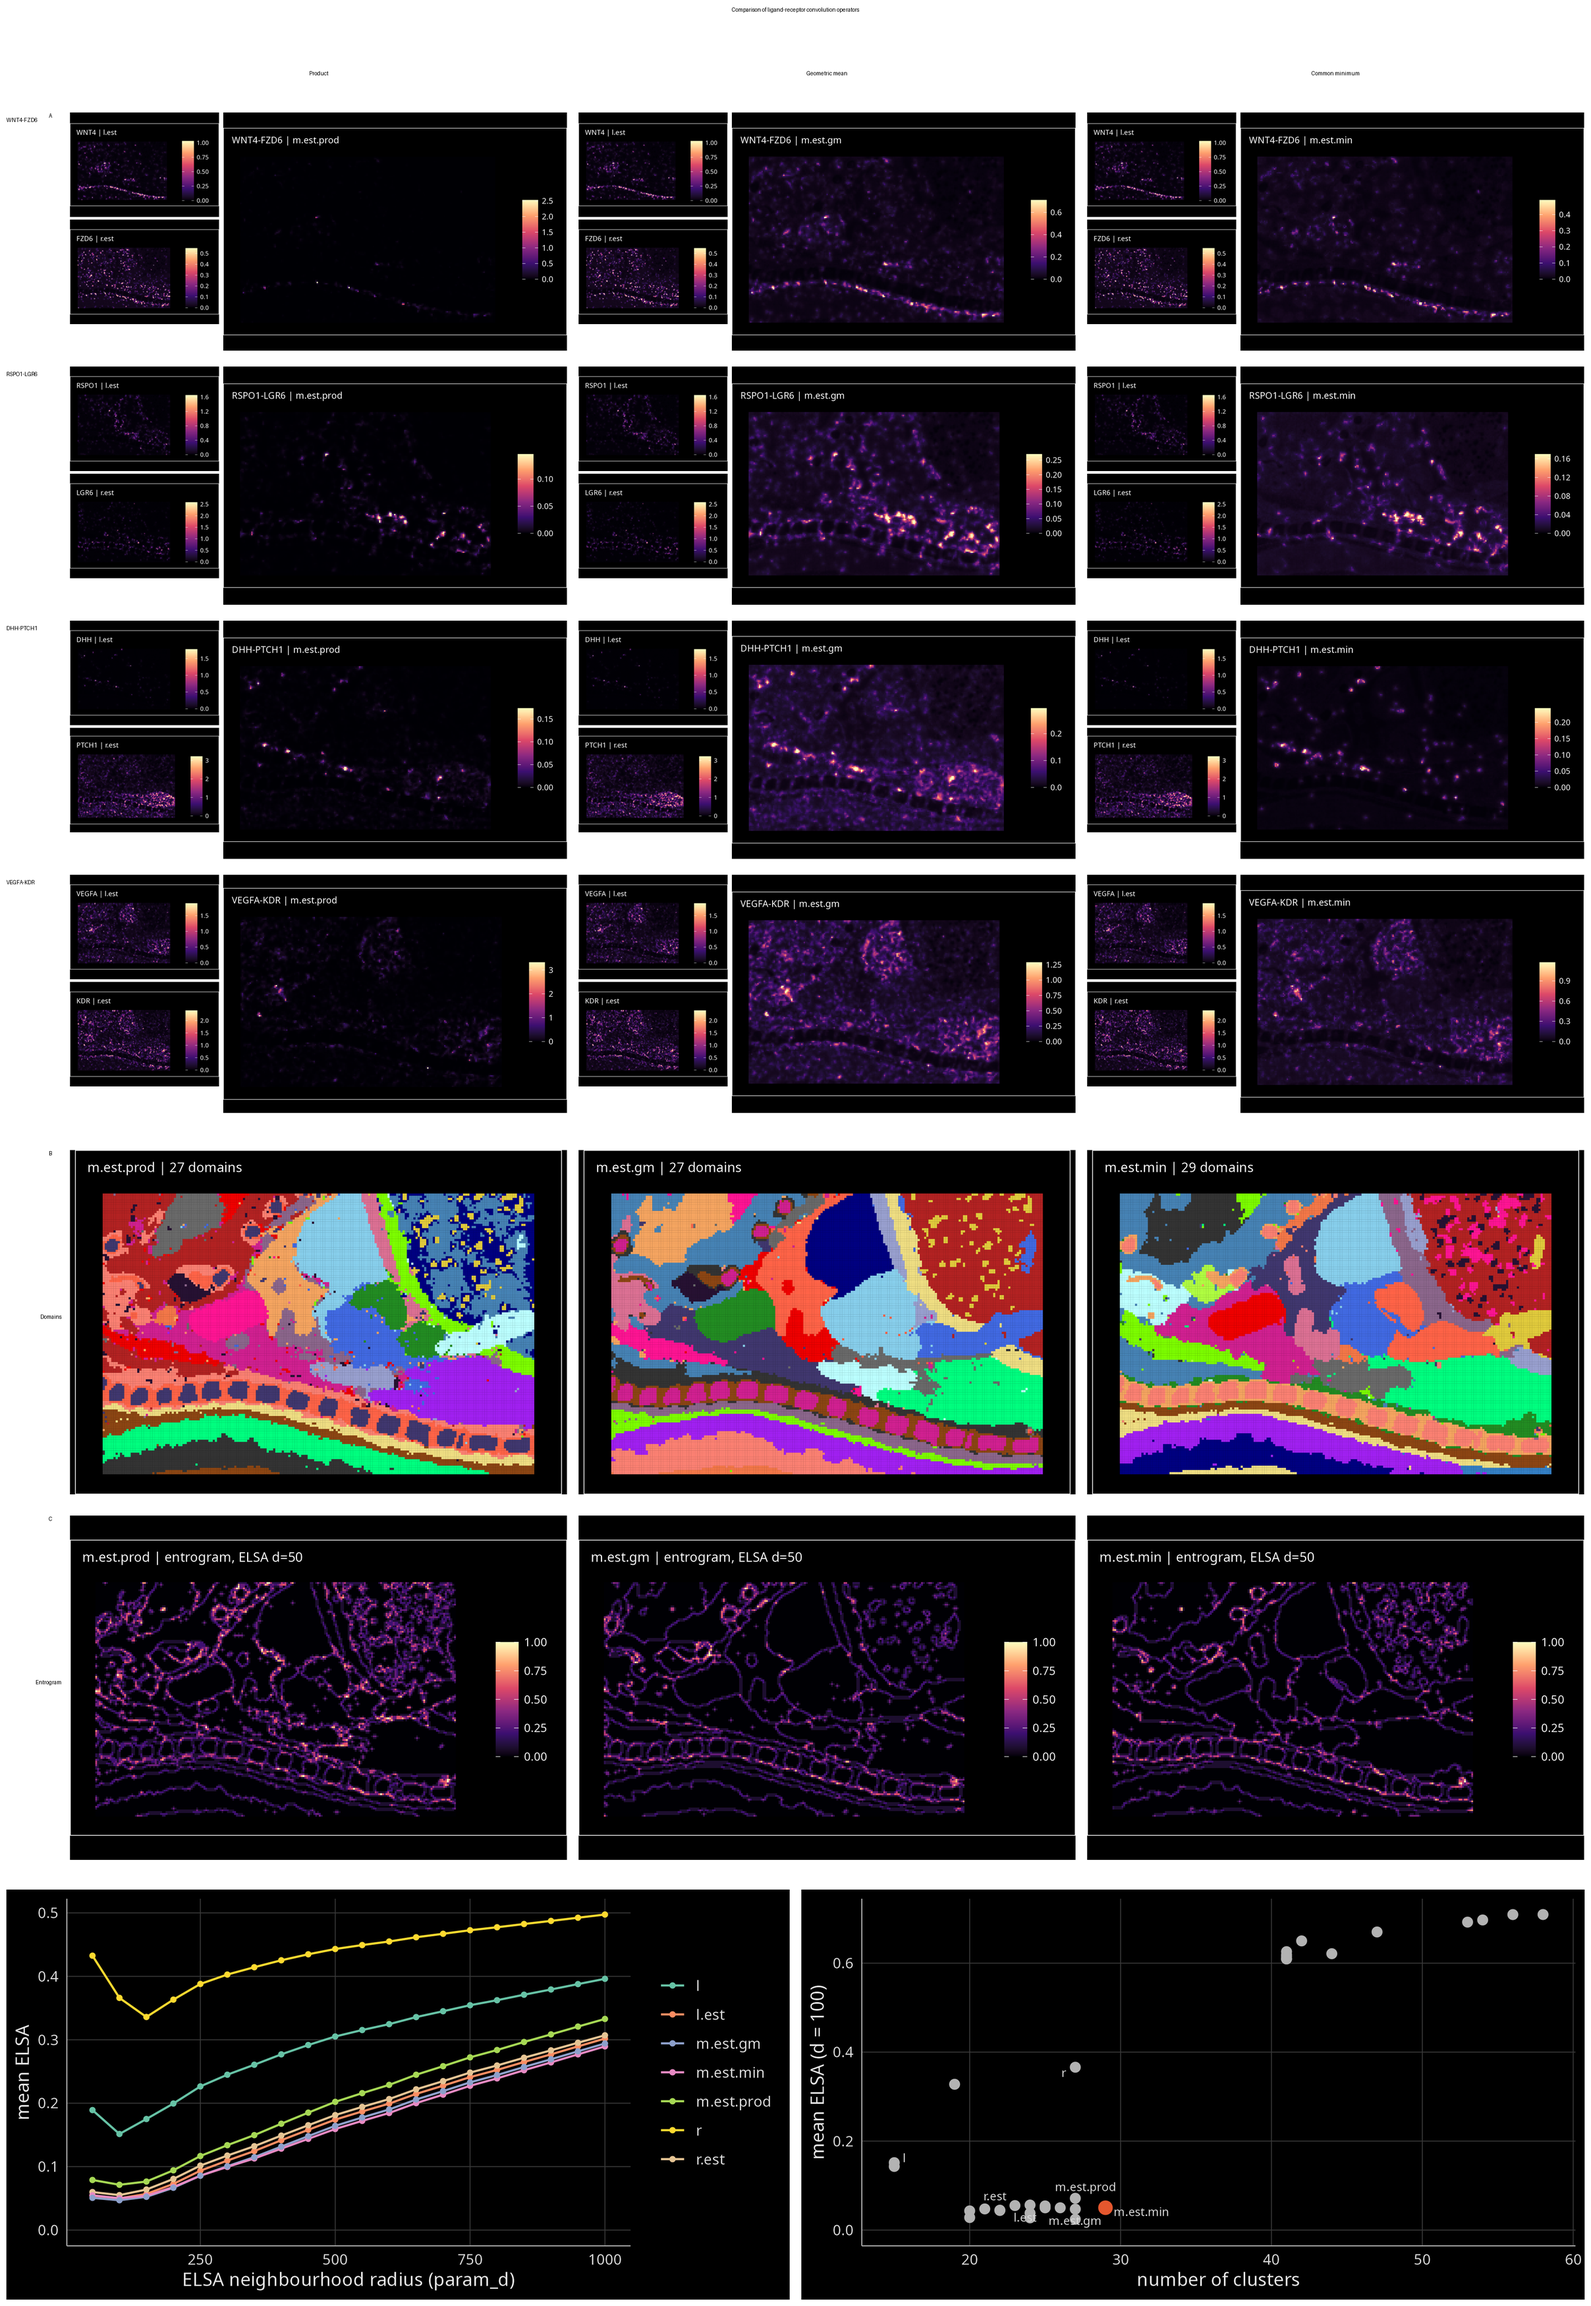
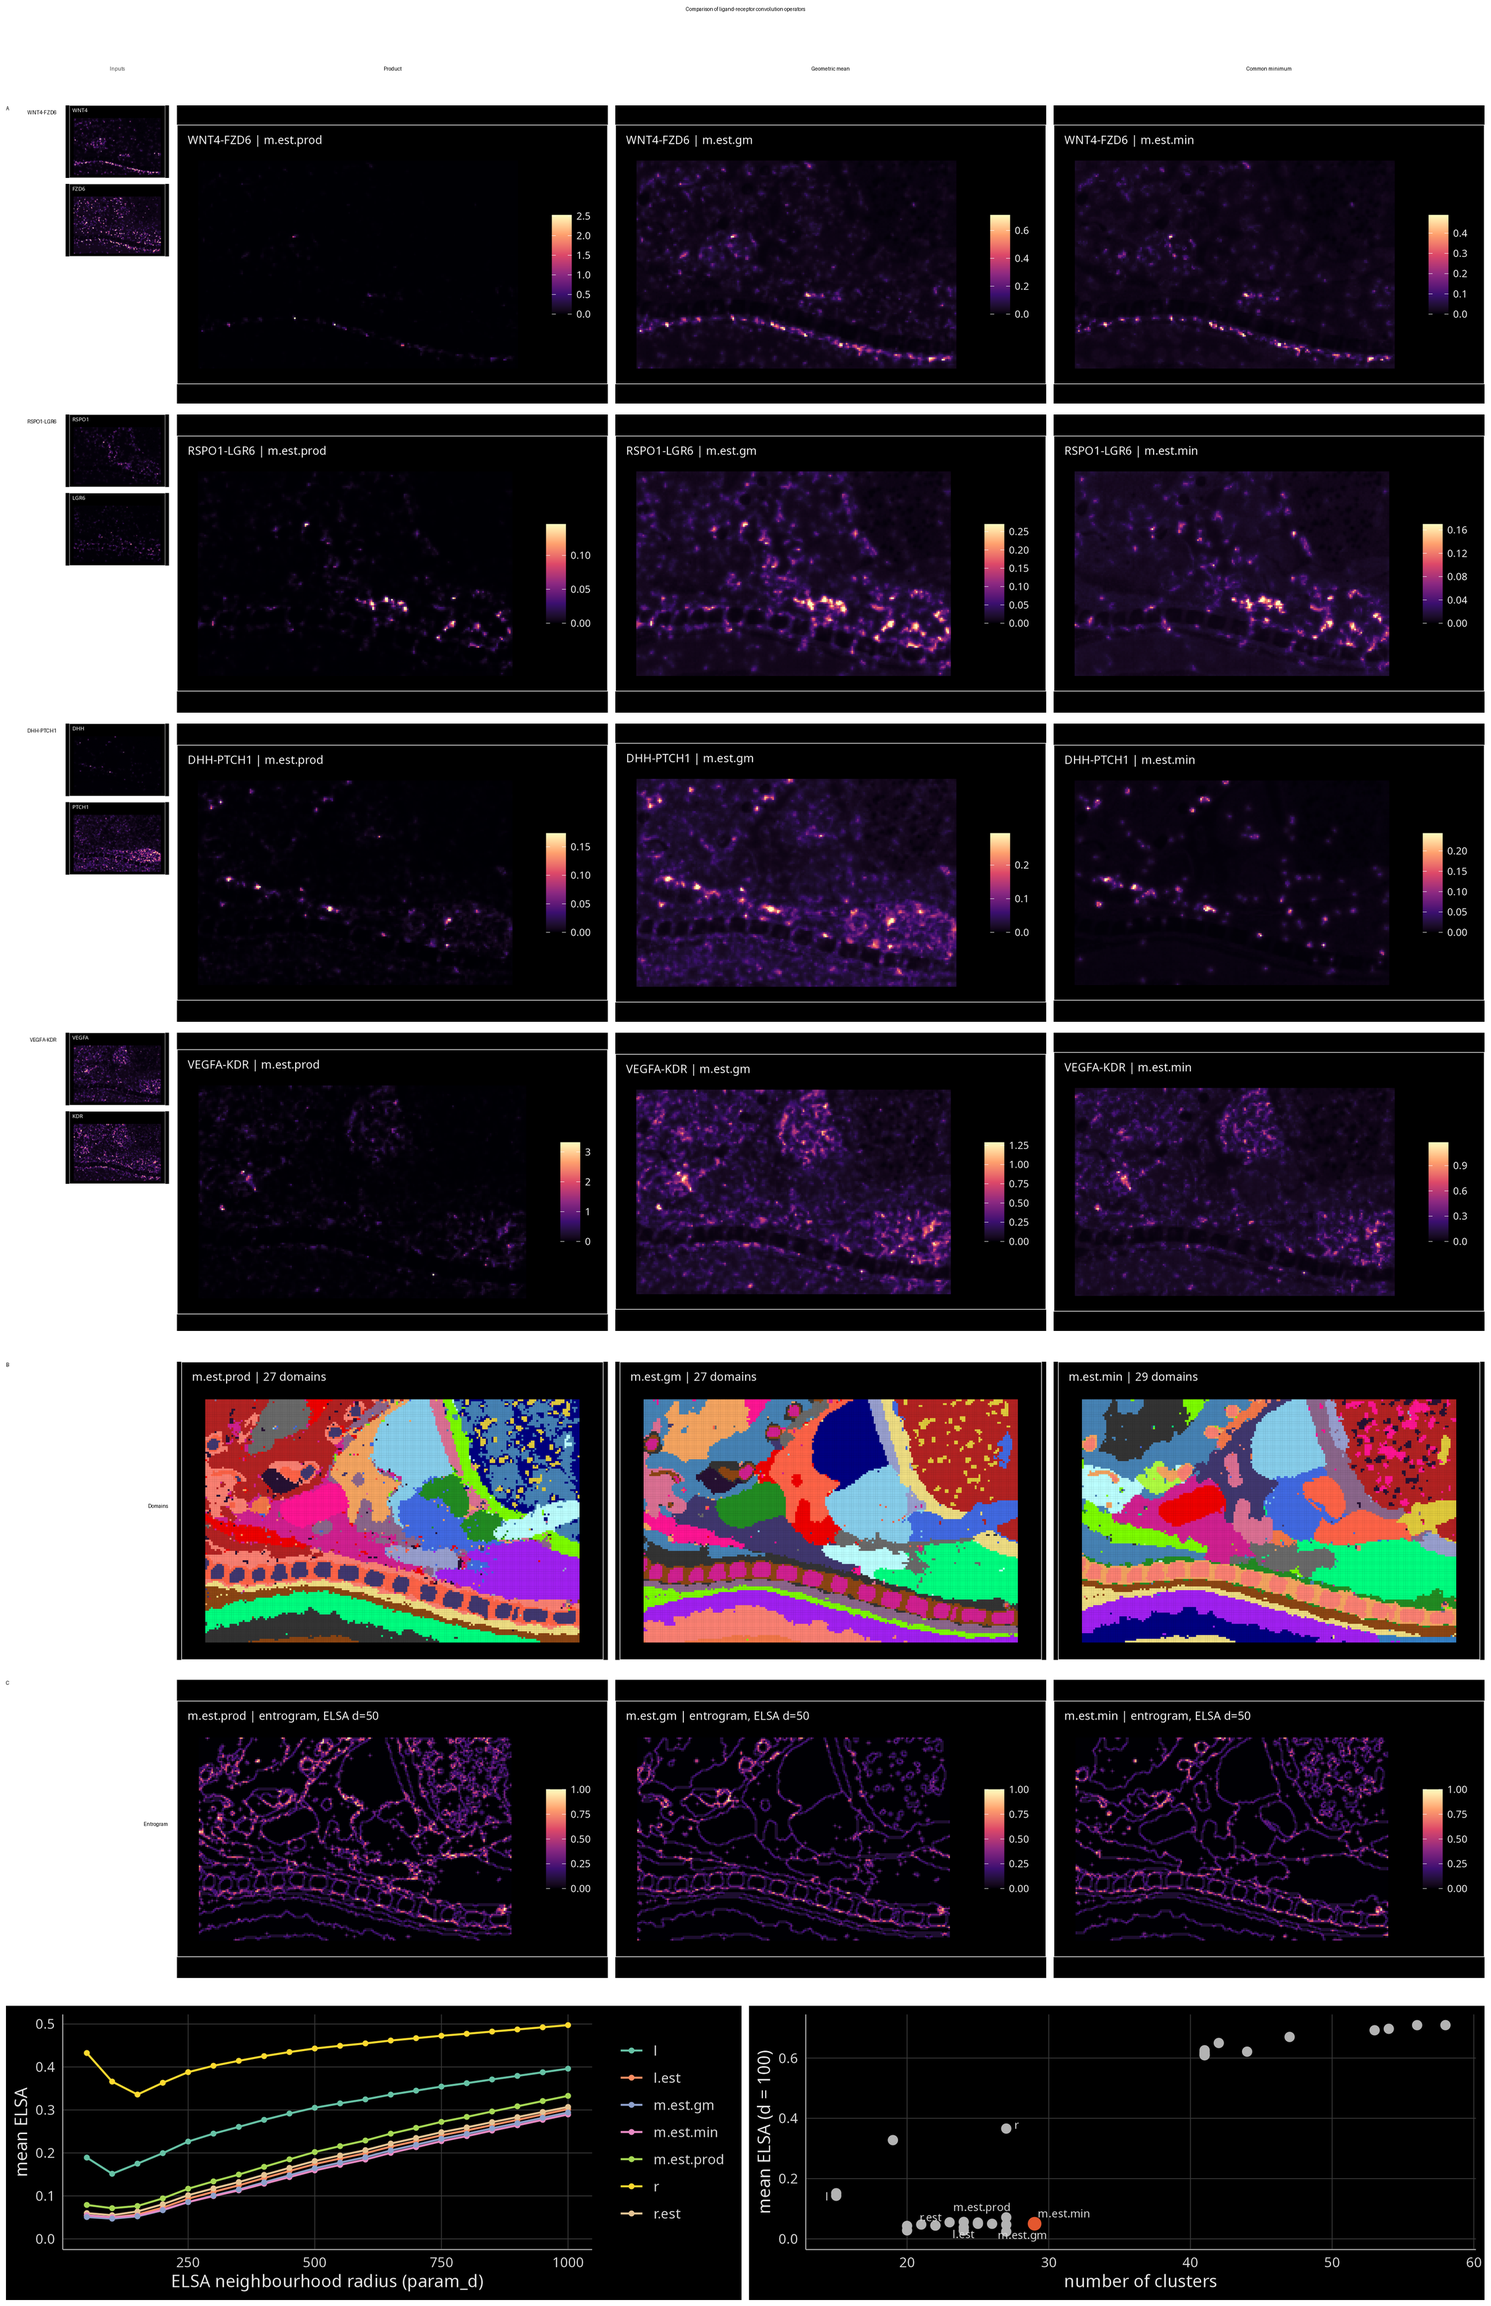
Remove the duplicated ligand/receptor panels from Figure 5
The published layout repeated the ligand and receptor fields inside each of
the three operator columns. Those fields are l.est and r.est and do not
depend on the convolution operator; all eight were verified byte-identical
across the columns before removing them. They now appear once, in a left
gutter beside the mechanism they belong to.

The width that recovers goes to the interaction fields, which grow from
1.02 in to 1.64 in, a 60% increase. That is the substance of R1.3 for this
figure, and it could not be had by sizing alone.

Their individual colour bars are dropped too. At gutter width a bar consumed
roughly 40% of the panel while being unreadable, and these panels are
contextual, showing where each partner is expressed, rather than
quantitative reads. The interaction fields beside them keep their bars.

The input panels are also written once per mechanism rather than once per
operator column. Writing 24 files where 8 suffice, in the same change that
removes duplication from the figure, would have been perverse.

Height still binds: at full 7.5 in width the composite exceeds the 8.75 in
PLOS limit, so it scales to 5.66 x 8.75 and leaves 1.84 in of permitted
width unused. Twenty panels in a portrait stack do not fit the format.
Transposing so operators are rows and mechanisms are columns would fix it,
at the cost of changing what the caption describes; not done, since the
authors ruled out reorganising.

diff --git a/Submission_PLOSOne/submission-2/figures-regenerated/compose-fig-5.py b/Submission_PLOSOne/submission-2/figures-regenerated/compose-fig-5.py
@@ -2,12 +2,17 @@
 """Assemble Figure 5 (convolution operator comparison) from the regenerated panels.
 
 Replaces hand assembly in Illustrator. Figure 5 is a portrait stack rather than a grid, so it
-gets its own script: three operator columns, a top block of four example mechanisms each
-showing ligand and receptor above their interaction field, then the resulting domains and the
-matching entrogram, then two summary panels spanning the width.
+gets its own script rather than sharing compose-figs-3-4.R.
+
+The ligand and receptor fields are l.est and r.est, which do not depend on the convolution
+operator. The published layout repeated them inside each of the three operator columns, so
+eight panels were drawn three times each; verified byte-identical across the columns. They are
+shown once here, in a left gutter beside the mechanism they belong to, and the width that
+recovers goes to the interaction fields, which is what Reviewer 1 asked for in R1.3.
 
 The panels themselves come from regenerate-fig5.R, which applies the coord_fixed() correction
-that Figure 5 needed (R2.6 as extended to this figure). Nothing is re-clustered anywhere.
+Figure 5 needed (R2.6 as extended to this figure), and fig5-summary-panels.R. Nothing is
+re-clustered.
 
 Usage: python3 compose-fig-5.py [width_in] [dpi]
 """
@@ -16,9 +21,10 @@ from PIL import Image, ImageDraw, ImageFont
 
 W_IN = float(sys.argv[1]) if len(sys.argv) > 1 else 7.5
 DPI  = int(sys.argv[2]) if len(sys.argv) > 2 else 400
+MAX_H_IN = 8.75                      # PLOS ONE figure box is 7.5 x 8.75 in
 W    = int(W_IN * DPI)
 
-P = "panels-fig5"
+P     = "panels-fig5"
 OPS   = [("prod", "Product"), ("gm", "Geometric mean"), ("min", "Common minimum")]
 MECHS = ["WNT4-FZD6", "RSPO1-LGR6", "DHH-PTCH1", "VEGFA-KDR"]
 
@@ -31,98 +37,78 @@ def font(px, bold=False):
             continue
     return ImageFont.load_default()
 
-def load(name):
-    return Image.open(f"{P}/{name}.png").convert("RGB")
+def load(n): return Image.open(f"{P}/{n}.png").convert("RGB")
+def fit(im, w): return im.resize((w, round(im.height * w / im.width)), Image.LANCZOS)
 
-def fit(im, w):
-    return im.resize((w, round(im.height * w / im.width)), Image.LANCZOS)
+I = lambda x: round(x * DPI)         # inches to pixels
 
-# ---- geometry ------------------------------------------------------------------------
-PAD      = round(0.030 * DPI)
-GUT      = round(0.055 * DPI)          # gap between operator columns
-LEFT     = round(0.30 * DPI)           # row-label gutter
-COLW     = (W - 2 * PAD - LEFT - 2 * GUT) // 3
-LR_W     = round(COLW * 0.30)          # small ligand / receptor panels
-INT_W    = COLW - LR_W - round(0.02 * DPI)
-F_HEAD   = font(round(0.105 * DPI), True)
-F_SUB    = font(round(0.072 * DPI))
-F_ROW    = font(round(0.078 * DPI), True)
-F_MECH   = font(round(0.066 * DPI), True)
-F_TITLE  = font(round(0.135 * DPI), True)
+PAD, GUT = I(0.030), I(0.038)
+LBL_W, LR_W, LR_GAP = I(0.30), I(0.52), I(0.030)
+LEFT = LBL_W + LR_W + I(0.04)
+COLW = (W - 2 * PAD - LEFT - 2 * GUT) // 3
 
-lr_h  = fit(load("Fig5_min_WNT4-FZD6_ligand"), LR_W).height
-int_h = fit(load("Fig5_min_WNT4-FZD6_interaction"), INT_W).height
-mech_h = max(2 * lr_h + round(0.012 * DPI), int_h) + round(0.075 * DPI)
+F_TITLE, F_HEAD = font(I(0.135), True), font(I(0.100), True)
+F_ROW, F_MECH   = font(I(0.075), True), font(I(0.068), True)
+
+lr_h   = fit(load(f"Fig5_input_{MECHS[0]}_ligand"), LR_W).height
+int_h  = fit(load(f"Fig5_min_{MECHS[0]}_interaction"), COLW).height
+mech_h = max(int_h, 2 * lr_h + LR_GAP) + I(0.055)
 map_h  = fit(load("Fig5_min_domains"), COLW).height
-summ_h = fit(load("Fig5_summary_elsa-vs-paramD"), (W - 2 * PAD - GUT) // 2).height
+sw     = (W - 2 * PAD - GUT) // 2
+summ_h = fit(load("Fig5_summary_elsa-vs-paramD"), sw).height
 
-TITLE_H = round(0.30 * DPI)
-HEAD_H  = round(0.20 * DPI)
-H = (TITLE_H + HEAD_H + 4 * mech_h + round(0.10 * DPI) + map_h + round(0.10 * DPI)
-     + map_h + round(0.14 * DPI) + summ_h + 2 * PAD)
+TITLE_H, HEAD_H = I(0.30), I(0.20)
+H = (PAD + TITLE_H + HEAD_H + 4 * mech_h + I(0.10) + map_h + I(0.10) + map_h
+     + I(0.14) + summ_h + PAD)
 
 canvas = Image.new("RGB", (W, H), "white")
 dr = ImageDraw.Draw(canvas)
 
 def ctext(x, y, s, f, fill="black"):
-    b = dr.textbbox((0, 0), s, font=f)
-    dr.text((x - (b[2] - b[0]) / 2, y), s, font=f, fill=fill)
+    b = dr.textbbox((0, 0), s, font=f); dr.text((x - (b[2] - b[0]) / 2, y), s, font=f, fill=fill)
 
 def rtext(x, y, s, f, fill="black"):
-    b = dr.textbbox((0, 0), s, font=f)
-    dr.text((x - (b[2] - b[0]), y), s, font=f, fill=fill)
+    b = dr.textbbox((0, 0), s, font=f); dr.text((x - (b[2] - b[0]), y), s, font=f, fill=fill)
 
-def colx(i):
-    return PAD + LEFT + i * (COLW + GUT)
+colx = lambda i: PAD + LEFT + i * (COLW + GUT)
 
-# ---- title and operator headers ------------------------------------------------------
 y = PAD
 ctext(W / 2, y, "Comparison of ligand-receptor convolution operators", F_TITLE)
 y += TITLE_H
+ctext(PAD + LBL_W + LR_W / 2, y, "Inputs", F_HEAD, fill=(80, 80, 80))
 for i, (_, label) in enumerate(OPS):
     ctext(colx(i) + COLW / 2, y, label, F_HEAD)
 y += HEAD_H
 
-# ---- top block: four mechanisms, ligand and receptor beside their interaction field ---
+top_y = y
 for m in MECHS:
+    lx = PAD + LBL_W
+    canvas.paste(fit(load(f"Fig5_input_{m}_ligand"), LR_W), (lx, y))
+    canvas.paste(fit(load(f"Fig5_input_{m}_receptor"), LR_W), (lx, y + lr_h + LR_GAP))
     for i, (op, _) in enumerate(OPS):
-        x = colx(i)
-        canvas.paste(fit(load(f"Fig5_{op}_{m}_ligand"), LR_W), (x, y))
-        canvas.paste(fit(load(f"Fig5_{op}_{m}_receptor"), LR_W), (x, y + lr_h + round(0.012 * DPI)))
-        canvas.paste(fit(load(f"Fig5_{op}_{m}_interaction"), INT_W),
-                     (x + LR_W + round(0.02 * DPI), y))
-    dr.text((PAD, y + round(0.02 * DPI)), m, font=F_MECH, fill="black")
+        canvas.paste(fit(load(f"Fig5_{op}_{m}_interaction"), COLW), (colx(i), y))
+    rtext(PAD + LBL_W - I(0.045), y + I(0.02), m, F_MECH)
     y += mech_h
 
-# ---- resulting domains, then the matching entrogram ----------------------------------
-y += round(0.10 * DPI)
+y += I(0.10)
+dom_y = y
 for i, (op, _) in enumerate(OPS):
     canvas.paste(fit(load(f"Fig5_{op}_domains"), COLW), (colx(i), y))
-rtext(PAD + LEFT - round(0.04 * DPI), y + map_h / 2 - round(0.04 * DPI), "Domains", F_ROW)
-y += map_h + round(0.10 * DPI)
+rtext(PAD + LEFT - I(0.045), y + map_h / 2 - I(0.04), "Domains", F_ROW)
+y += map_h + I(0.10)
+ent_y = y
 for i, (op, _) in enumerate(OPS):
     canvas.paste(fit(load(f"Fig5_{op}_entrogram"), COLW), (colx(i), y))
-rtext(PAD + LEFT - round(0.04 * DPI), y + map_h / 2 - round(0.04 * DPI), "Entrogram", F_ROW)
-y += map_h + round(0.14 * DPI)
+rtext(PAD + LEFT - I(0.045), y + map_h / 2 - I(0.04), "Entrogram", F_ROW)
+y += map_h + I(0.14)
 
-# ---- two summary panels spanning the width -------------------------------------------
-sw = (W - 2 * PAD - GUT) // 2
 canvas.paste(fit(load("Fig5_summary_elsa-vs-paramD"), sw), (PAD, y))
 canvas.paste(fit(load("Fig5_summary_elsa-vs-numclust"), sw), (PAD + sw + GUT, y))
 
-# ---- panel letters -------------------------------------------------------------------
-letters = [("A", PAD + LEFT, PAD + TITLE_H + HEAD_H),
-           ("B", PAD + LEFT, PAD + TITLE_H + HEAD_H + 4 * mech_h + round(0.10 * DPI)),
-           ("C", PAD + LEFT, PAD + TITLE_H + HEAD_H + 4 * mech_h + round(0.20 * DPI) + map_h),
-           ("D", PAD, y), ("E", PAD + sw + GUT, y)]
-for s, lx, ly in letters:
-    dr.text((lx - round(0.10 * DPI), ly), s, font=F_HEAD, fill="black")
+for s, lx, ly in [("A", PAD, top_y), ("B", PAD, dom_y), ("C", PAD, ent_y),
+                  ("D", PAD, y), ("E", PAD + sw + GUT - I(0.10), y)]:
+    dr.text((lx, ly), s, font=F_HEAD, fill="black")
 
-# PLOS ONE caps a figure at 7.5 x 8.75 in. Figure 5 carries twenty panels in a portrait
-# stack, so at full width it overruns the height limit. That is the same constraint that
-# forced the published version to be scaled to 0.705\linewidth in the manuscript. Scale the
-# finished composite to fit the box rather than silently exceeding it.
-MAX_H_IN = 8.75
 h_in = H / DPI
 if h_in > MAX_H_IN:
     k = MAX_H_IN / h_in
@@ -130,5 +116,5 @@ if h_in > MAX_H_IN:
     print(f"scaled by {k:.3f} to meet the {MAX_H_IN} in height limit")
 
 canvas.save("Fig5-composite.png", dpi=(DPI, DPI))
-print(f"Fig5-composite.png  {canvas.width / DPI:.2f} x {canvas.height / DPI:.2f} in @ {DPI} dpi"
-      f"  ({canvas.width} x {canvas.height} px)")
+print(f"Fig5-composite.png  {canvas.width / DPI:.2f} x {canvas.height / DPI:.2f} in @ {DPI} dpi")
+print(f"interaction panel width: {COLW * (canvas.width / W) / DPI:.2f} in")

diff --git a/Submission_PLOSOne/submission-2/figures-regenerated/README-panels.md b/Submission_PLOSOne/submission-2/figures-regenerated/README-panels.md
@@ -100,3 +100,43 @@ Figures 3 and 4, so this is discretionary, but it is the same defect.
 - The R1.3 pass: larger physical size and reorganisation so compared panels sit adjacent.
 - Figure 6's in-figure labels read "1481 Features"; the corrected count is 1477.
 - The R1.5 graphical abstract.
+
+
+## Figure 5 panels (`panels-fig5/`)
+
+Built by `regenerate-fig5.R` (maps), `fig5-input-panels.R` (the shared ligand and receptor
+fields), and `fig5-summary-panels.R` (the two summary plots). Assembled by
+`compose-fig-5.py`.
+
+Figure 5's aspect defect had a different cause from Figs 3 and 4. Its spatial panels come from
+ggplot in `Sup6 - ELSA Analysis.R`, which never calls `coord_fixed()`, so ggplot stretched each
+panel to whatever device was requested rather than to the true 200:130 bin geometry. Adding
+`coord_fixed(ratio = 1)` fixes it.
+
+**The published layout repeated the ligand and receptor panels in each of the three operator
+columns.** Those fields are `l.est` and `r.est` and do not depend on the convolution operator;
+all eight were verified byte-identical across the columns. They are now shown once, in a left
+gutter beside the mechanism they belong to. The width that recovers goes to the interaction
+fields, which grow from 1.02 in to 1.64 in, a 60% increase, which is the substance of R1.3 for
+this figure. Their individual colour bars were dropped as well: at gutter width a bar consumed
+about 40% of the panel while being unreadable, and these panels are contextual rather than
+quantitative reads.
+
+| panel | file |
+|---|---|
+| shared ligand field, per mechanism | `Fig5_input_{MECH}_ligand.png` |
+| shared receptor field, per mechanism | `Fig5_input_{MECH}_receptor.png` |
+| interaction field | `Fig5_{prod,gm,min}_{MECH}_interaction.png` |
+| resulting domains | `Fig5_{prod,gm,min}_domains.png` |
+| entrogram | `Fig5_{prod,gm,min}_entrogram.png` |
+| summary, ELSA vs radius | `Fig5_summary_elsa-vs-paramD.png` |
+| summary, ELSA vs cluster count | `Fig5_summary_elsa-vs-numclust.png` |
+
+MECH is one of WNT4-FZD6, RSPO1-LGR6, DHH-PTCH1, VEGFA-KDR.
+
+**Height, not width, is what binds this figure.** At full 7.5 in width the composite is taller
+than the PLOS ONE limit of 8.75 in, so `compose-fig-5.py` scales it to the box, which yields
+5.66 x 8.75 in and leaves 1.84 in of permitted width unused. This is the same constraint that
+forced the published version to `0.705\linewidth`. Twenty panels in a portrait stack do not fit
+the format, and no amount of sizing fixes that; transposing the figure so operators are rows
+and mechanisms are columns would, at the cost of changing what the caption describes.
